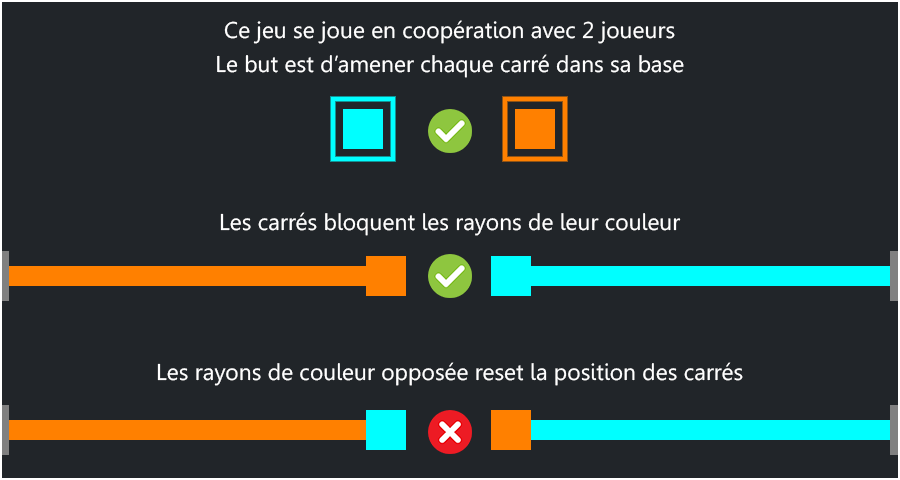
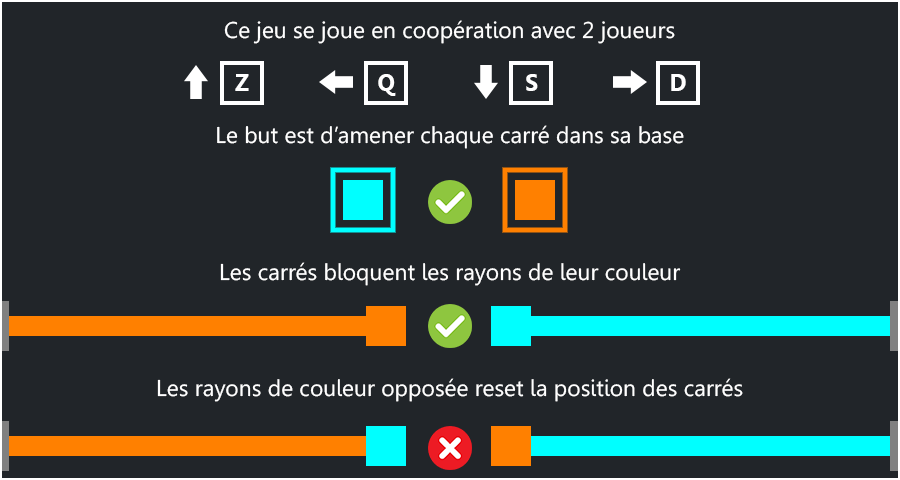
bug fixes

Changed region(s): [[0.0, 0.75, 1.0, 1.0], [0.1867, 0.125, 0.7778, 0.5], [0.0, 0.5, 1.0, 0.75]]

diff --git a/src/js/script.js b/src/js/script.js
@@ -4,10 +4,15 @@ window.addEventListener('DOMContentLoaded', function () {
 
   var socket = io({query: tokenWs});
 
-  game(socket)
+  game(socket);
+
+  var flashTuto = setInterval(() => {
+      $('#instructions').toggleClass( "flashColor" );    
+  }, 250);
 
   $('#instructions').mouseover(function () {
-    $('#tuto').css("display", "block");
+    $('#tuto').css("display", "inline-block");
+    clearInterval(flashTuto);
   })
 
   $('#instructions').mouseout(function () {
@@ -42,6 +47,6 @@ window.addEventListener('DOMContentLoaded', function () {
 	///////////////////////////////////////////////////////////////
 	/////                     LANCEMENT DU JEU                /////
 	///////////////////////////////////////////////////////////////
-	game(socket);
+	// game(socket);
 
 }, true);

diff --git a/src/css/agency.css b/src/css/agency.css
@@ -35,7 +35,12 @@ body {
 }
 
 #tuto {
+  margin-bottom: 20px;
   display: none;
+}
+
+.flashColor {
+  color: red;
 }
 
 #user {
@@ -251,9 +256,15 @@ img::-moz-selection {
   #canvas {
     width: 95%;
   }
+  #tuto {
+    width: 95%;
+  }
 
 @media (min-width: 992px) {
   #canvas {
+    width: 900px;
+  }
+  #tuto {
     width: 900px;
   }
 }  
